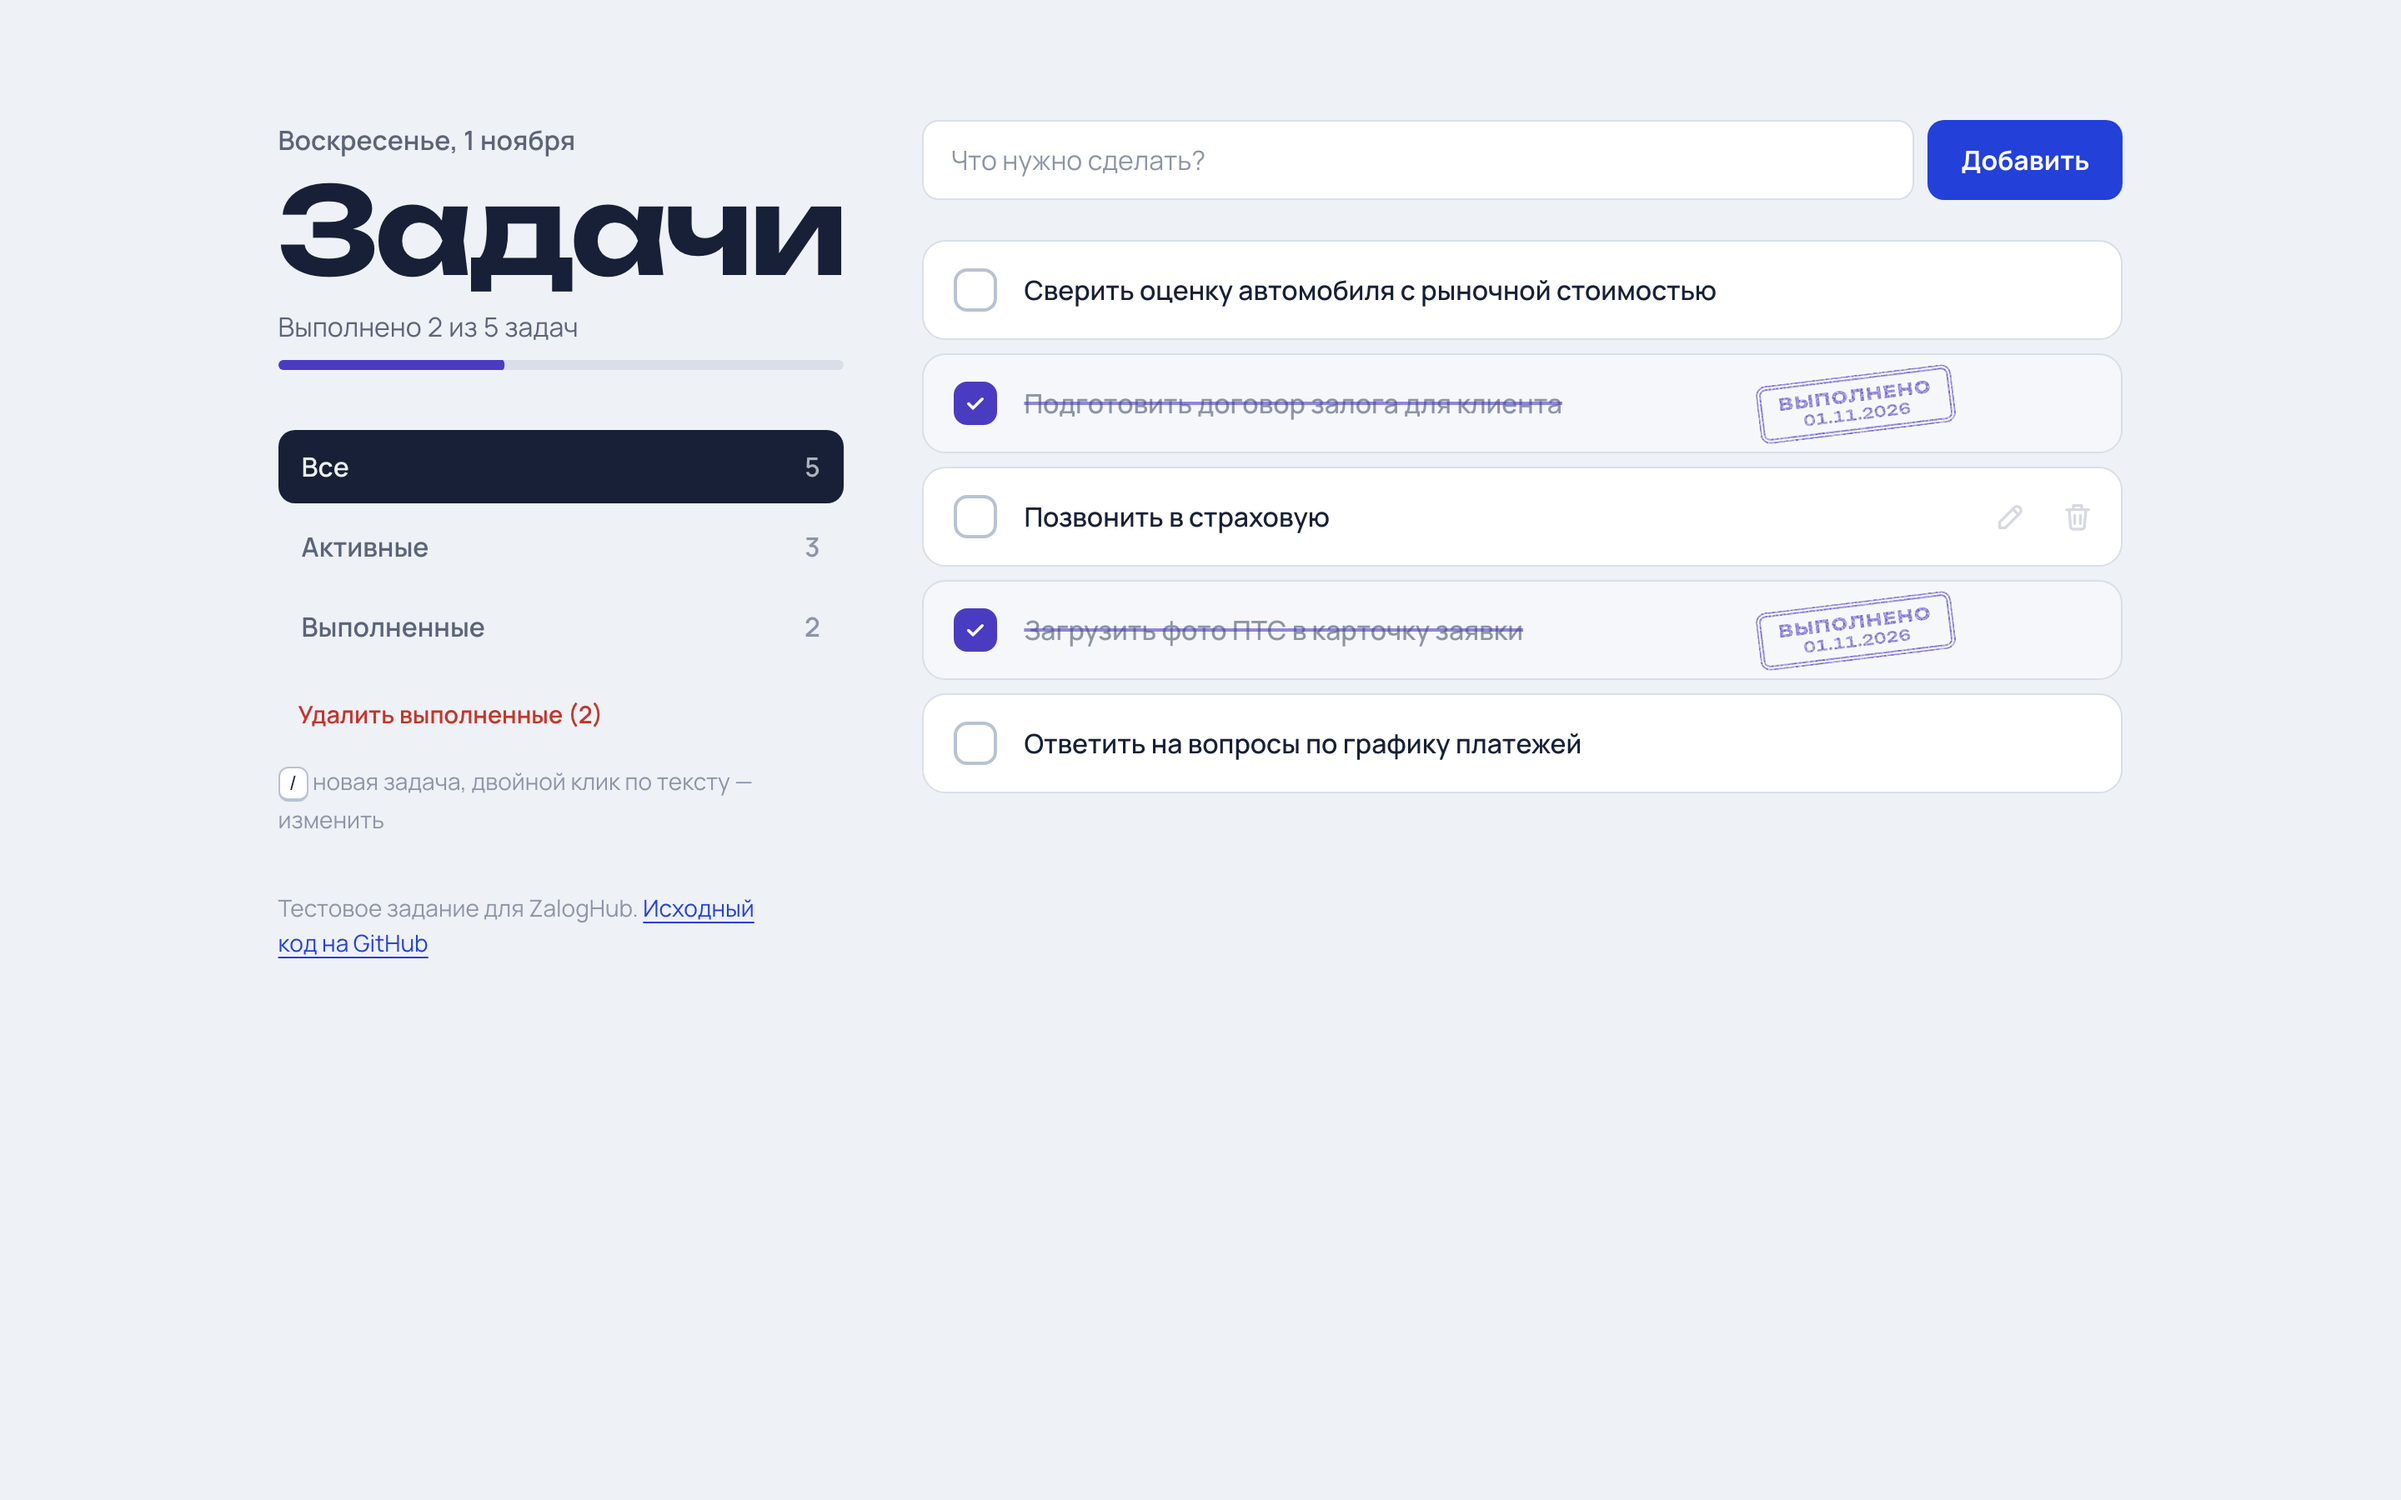
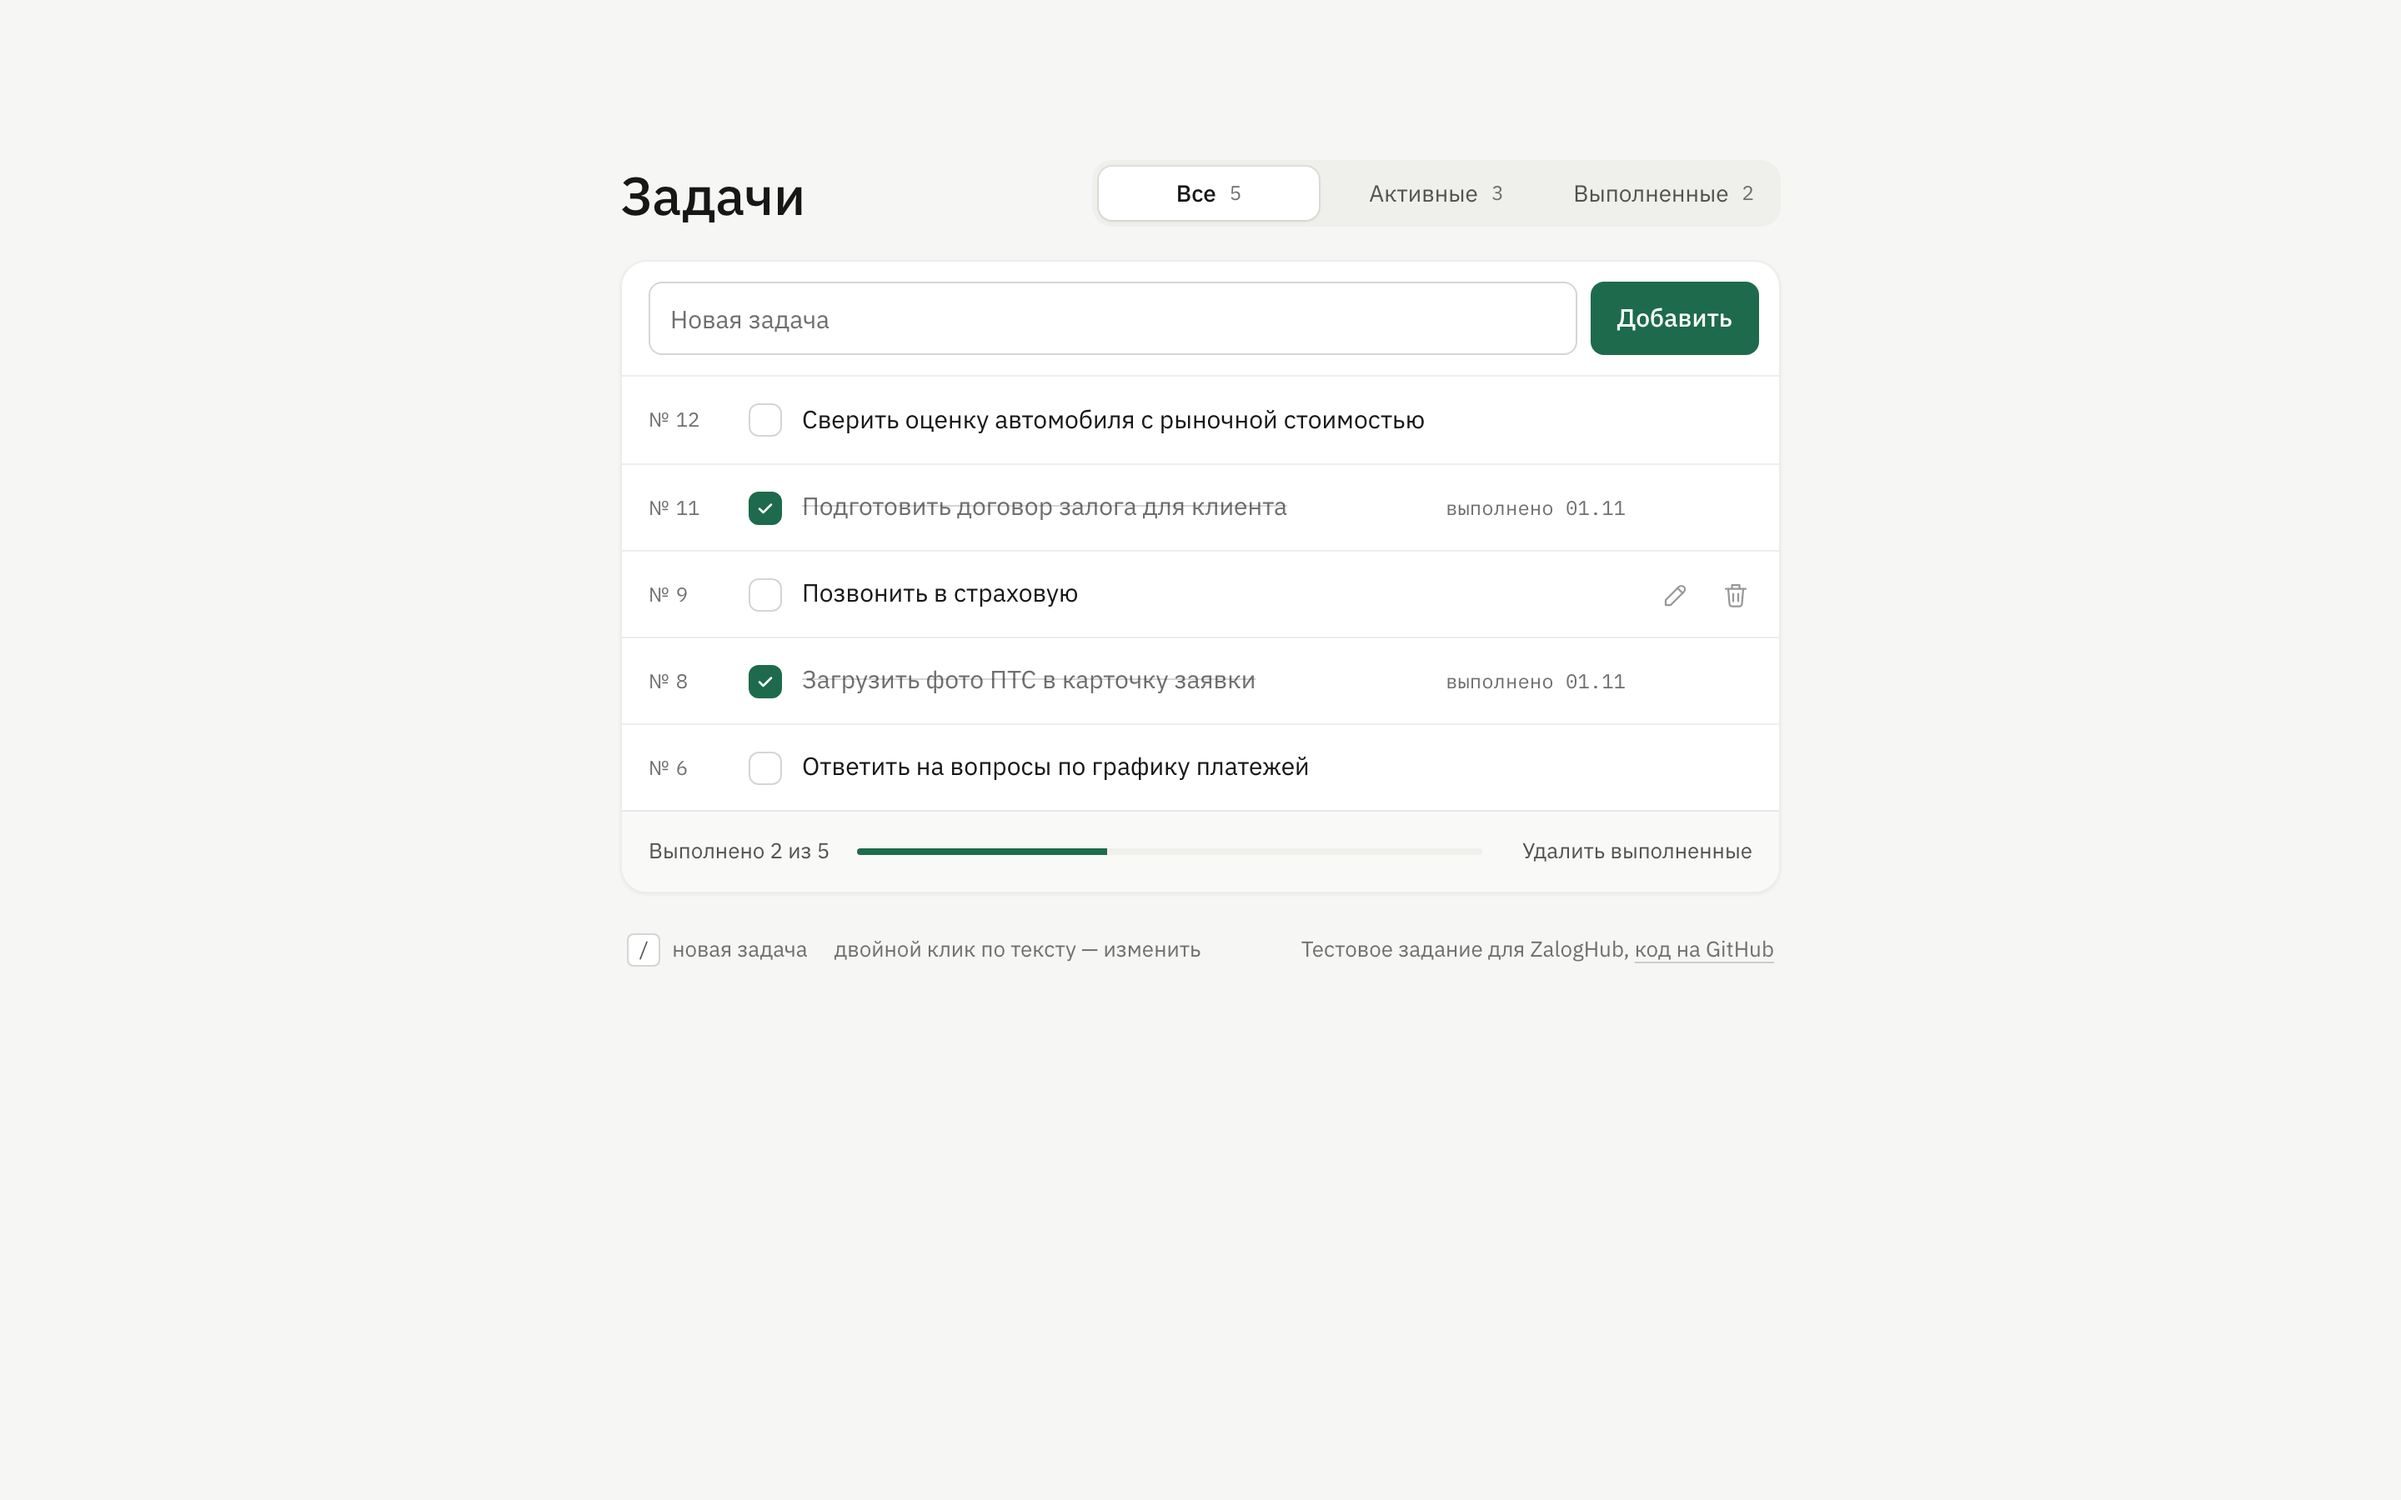
docs: обновить README и скриншоты под новый дизайн

diff --git a/README.md b/README.md
@@ -39,7 +39,7 @@ npm run preview    # просмотр собранной версии
 - фильтры «Все», «Активные», «Выполненные» со счётчиками;
 - сохранение в `localStorage` — задачи остаются после перезагрузки;
 - пустую строку и строку из одних пробелов добавить нельзя — поле подсвечивается, появляется подсказка;
-- выполненные задачи зачёркнуты, приглушены и отмечены штампом «Выполнено» с датой.
+- выполненные задачи отмечены зелёным чекбоксом, зачёркнуты, приглушены и показывают дату выполнения.
 
 Сверх ТЗ:
 
@@ -48,10 +48,11 @@ npm run preview    # просмотр собранной версии
 - **Фильтр в адресе** (`#/active`, `#/completed`): ссылкой можно поделиться, кнопка «Назад» в браузере работает.
 - **Синхронизация вкладок.** Изменения в одной вкладке сразу появляются в другой (событие `storage`).
 - **Устойчивость к битым данным.** Содержимое `localStorage` проверяется type guard'ом; повреждённые записи отбрасываются, а недоступное хранилище (приватный режим Safari) не ломает приложение.
-- **Адаптивная вёрстка:** телефон — одна колонка с закреплённым полем ввода, планшет — сегментированный переключатель фильтров, компьютер — две колонки с закреплённой боковой панелью.
+- **Номер в журнале.** Каждая задача получает порядковый номер (`№ 12`), который не сдвигается при удалении других задач, как в журнале учёта.
+- **Адаптивная вёрстка:** на телефоне фильтры занимают всю ширину, дата выполнения переносится под текст, кнопки действий видны всегда; на планшете и компьютере заголовок и фильтры стоят в одну строку, кнопки действий появляются при наведении.
 - **Тёмная тема** по системной настройке, `prefers-reduced-motion` учитывается.
 - **Доступность:** семантичные чекбоксы и кнопки, подписи для скринридеров, видимый фокус, `aria-live` для уведомлений, клавиша `/` переводит фокус в поле ввода.
-- **Тесты:** 24 теста — редьюсер, разбор хранилища и пользовательские сценарии через Testing Library.
+- **Тесты:** 26 тестов — редьюсер, разбор хранилища и пользовательские сценарии через Testing Library.
 - **CI/CD:** GitHub Actions запускает линтер, тесты и сборку, затем публикует сайт на GitHub Pages.
 
 ## Устройство
@@ -61,15 +62,18 @@ src/
 ├── types.ts               модель задачи и фильтры
 ├── lib/
 │   ├── todos.ts           чистый редьюсер и фильтрация
-│   ├── storage.ts         чтение/запись localStorage с валидацией
-│   └── plural.ts          склонение через Intl.PluralRules
+│   └── storage.ts         чтение/запись localStorage с валидацией
 ├── hooks/
 │   ├── useTodos.ts        состояние, сохранение и синхронизация вкладок
 │   └── useHashFilter.ts   фильтр в URL через useSyncExternalStore
 └── components/            форма, задача, фильтры, уведомление
 ```
 
-Логика отделена от отображения: вся работа со списком — чистая функция `todosReducer`, которую легко тестировать без React. Дополнительных runtime-зависимостей нет, кроме шрифтов (Unbounded и Manrope через Fontsource, без запросов к сторонним CDN).
+Логика отделена от отображения: вся работа со списком — чистая функция `todosReducer`, которую легко тестировать без React. Дополнительных runtime-зависимостей нет, кроме шрифтов (IBM Plex Sans и IBM Plex Mono через Fontsource, без запросов к сторонним CDN).
+
+## Дизайн
+
+Интерфейс сделан как лист журнала учёта: задачи — строки одного листа с регистрационными номерами, а не набор карточек. Основа — нейтральная серая палитра. Акцентный чернильно-зелёный цвет встречается только на кнопке добавления, отметках выполнения и полосе прогресса. Номера, даты и счётчики набраны моноширинным IBM Plex Mono, весь остальной текст — IBM Plex Sans.
 
 ## Время
 
